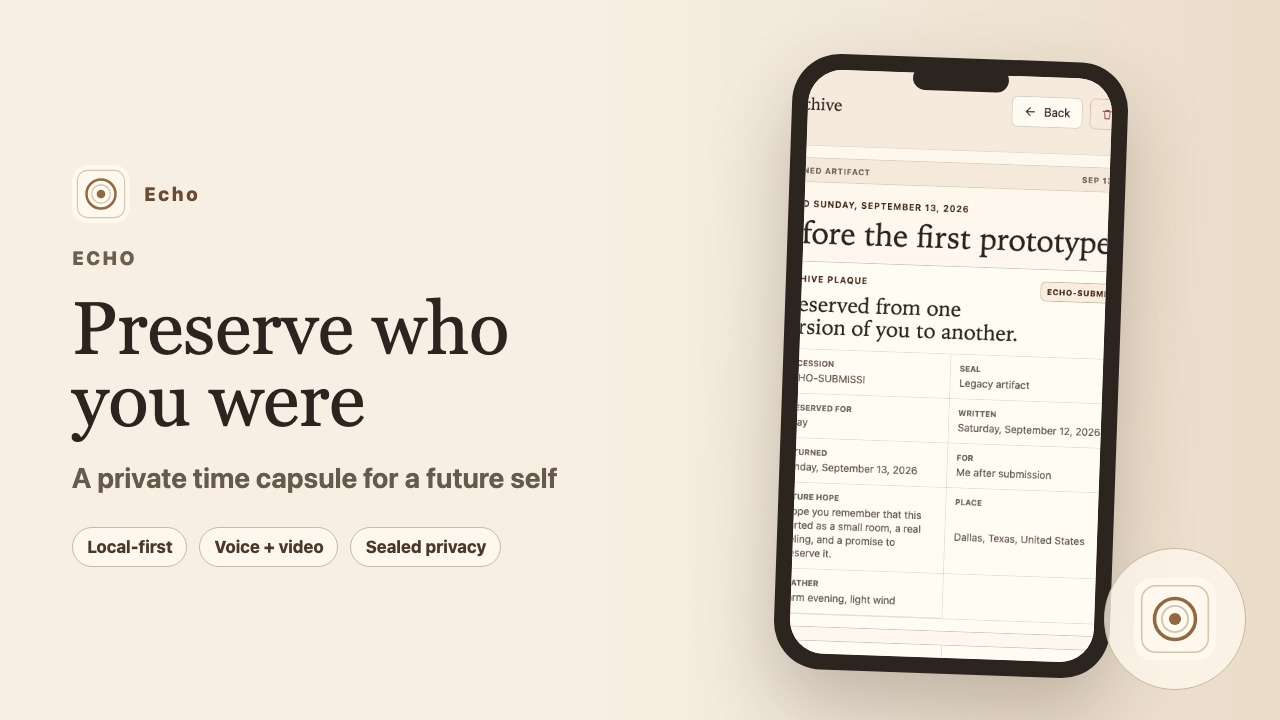
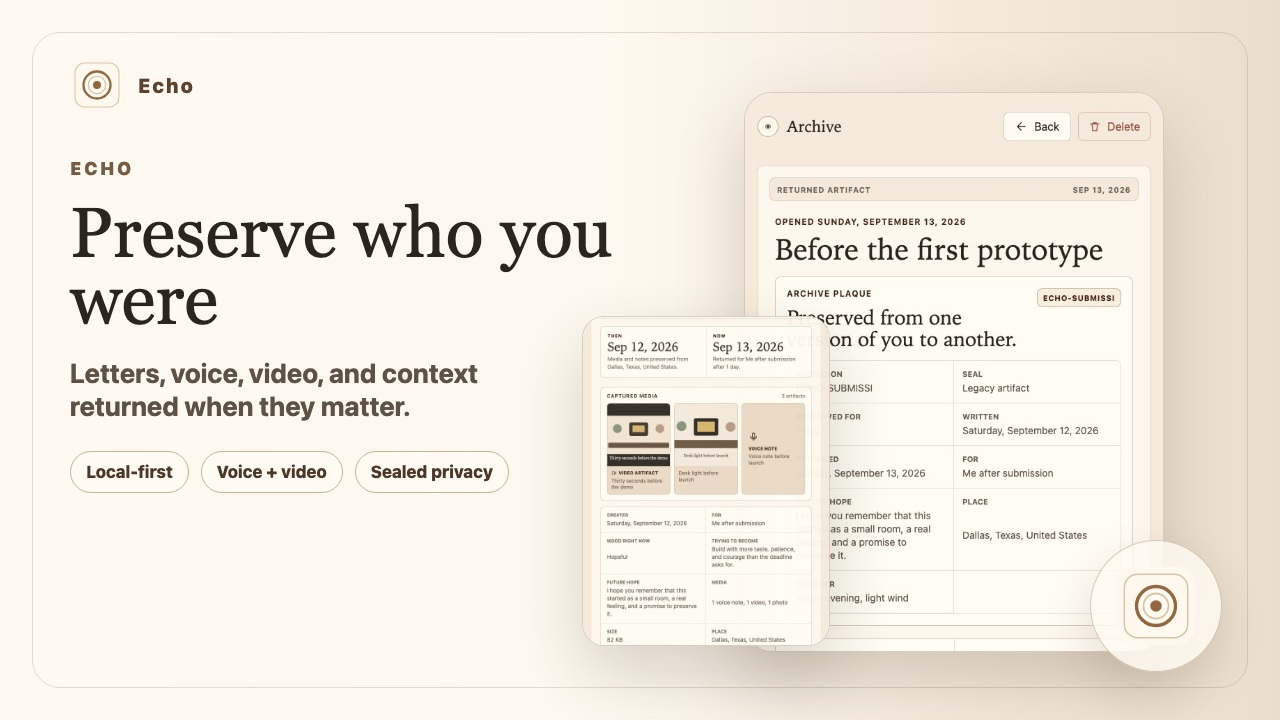
Improve video thumbnails and repo hygiene

diff --git a/docs/cac-video-thumbnail-title-options.md b/docs/cac-video-thumbnail-title-options.md
@@ -40,8 +40,9 @@ Letters, voice, video, and context sealed for later.
 Visual basis:
 
 - Primary app frame: `docs/assets/submission/08-media-evidence-tray.jpg`
-- Supporting frame if revised: `docs/assets/submission/07-returned-echo-detail.jpg`
-- Keep the warm ivory background, large serif type, bronze seal mark, and tilted iPhone frame.
+- Supporting frame: `docs/assets/submission/05-present-and-future-fields.jpg`
+- Keep the warm ivory background, large serif type, bronze seal mark, and full product panels.
+- Do not use the old fake phone crop. It made the app look cramped and lower quality.
 - Keep the text sparse enough to read at small size. The three-part line is the hook; the subtitle is optional if the thumbnail feels crowded.
 
 Why this pair works: the title names Echo's thesis, and the thumbnail proves it visually with media, place, and returned archive context. It says "this captures a whole moment," not "this stores notes."
@@ -104,9 +105,9 @@ Optional small line:
 Sealed for later
 ```
 
-Image: tilted iPhone showing `08-media-evidence-tray.jpg`, because the captured media tray makes Echo look unlike a journal clone.
+Image: full product panels showing `08-media-evidence-tray.jpg` and `05-present-and-future-fields.jpg`, because the captured media tray makes Echo look unlike a journal clone.
 
-Notes: Use the existing generated thumbnail `docs/assets/video/echo-thumbnail-02-human-place-time.jpg` as the base. If refining, crop the phone so the media tiles are larger and keep only one small CAC label.
+Notes: Use the generated thumbnail `docs/assets/video/echo-thumbnail-02-human-place-time.jpg` as the base. If refining, make the evidence tray even larger, but keep the full panel style.
 
 ### 2. Notes Save Words. Echo Saves The Moment.
 
@@ -117,7 +118,7 @@ Notes save words.
 Echo saves the moment.
 ```
 
-Image: iPhone showing `01-home-returned-and-sealed.jpg` or `02-write-room-media-first.jpg`.
+Image: product panels showing `02-write-room-media-first.jpg` and `01-home-returned-and-sealed.jpg`.
 
 Notes: This is the sharpest "why it exists" thumbnail. It is especially strong if the video begins with the line "Most apps save files..."
 
@@ -143,7 +144,7 @@ A letter
 to later.
 ```
 
-Image: iPhone showing `02-write-room-media-first.jpg` or `04-active-writing-cue.jpg`.
+Image: product panels showing `02-write-room-media-first.jpg` or `04-active-writing-cue.jpg`.
 
 Notes: This is the warmest and most literary option. It works if the final video starts in the Write room and slowly expands into media/context/privacy.
 

diff --git a/docs/assets/submission/README.md b/docs/assets/submission/README.md
@@ -1,0 +1,30 @@
+# Echo Submission Assets
+
+This folder contains the upload-ready visual set for Echo.
+
+## Screenshots
+
+All numbered screenshots are `600x800` JPEGs suitable for the CAC image upload flow.
+
+- `01-home-returned-and-sealed.jpg`: home screen with one returned Echo and hidden sealed state
+- `02-write-room-media-first.jpg`: writing room with voice, video, dictation, files, and moment capture
+- `03-writing-prompts-tabs.jpg`: prompt categories
+- `04-active-writing-cue.jpg`: selected prompt cue above the letter field
+- `05-present-and-future-fields.jpg`: present moment and future hope fields
+- `06-archive-privacy.jpg`: archive privacy screen
+- `07-returned-echo-detail.jpg`: returned Echo detail view
+- `08-media-evidence-tray.jpg`: museum-like media evidence tray
+- `09-trust-layer.jpg`: privacy and trust explanation
+- `10-settings-technical-proof.jpg`: technical proof section in settings
+
+## Cover
+
+Use `../echo-cover-600x800.jpg` as the primary cover image unless a later custom cover is created.
+
+## Video
+
+`echo-demo-walkthrough.webm` is a silent local walkthrough for GitHub preview and editing reference. The CAC portal still needs a public YouTube or Vimeo URL for the final narrated video.
+
+## Thumbnail Candidates
+
+Final video thumbnail candidates live in `../video/`.

diff --git a/README.md b/README.md
@@ -111,6 +111,8 @@ Echo itself is not an AI chatbot. The current app includes a small writing-polis
 
 ## Running Locally
 
+Prerequisites: Node.js 22 is recommended, matching the GitHub Actions and Docker runtime. Python 3 is used for the static local web server.
+
 Install dependencies:
 
 ```sh
